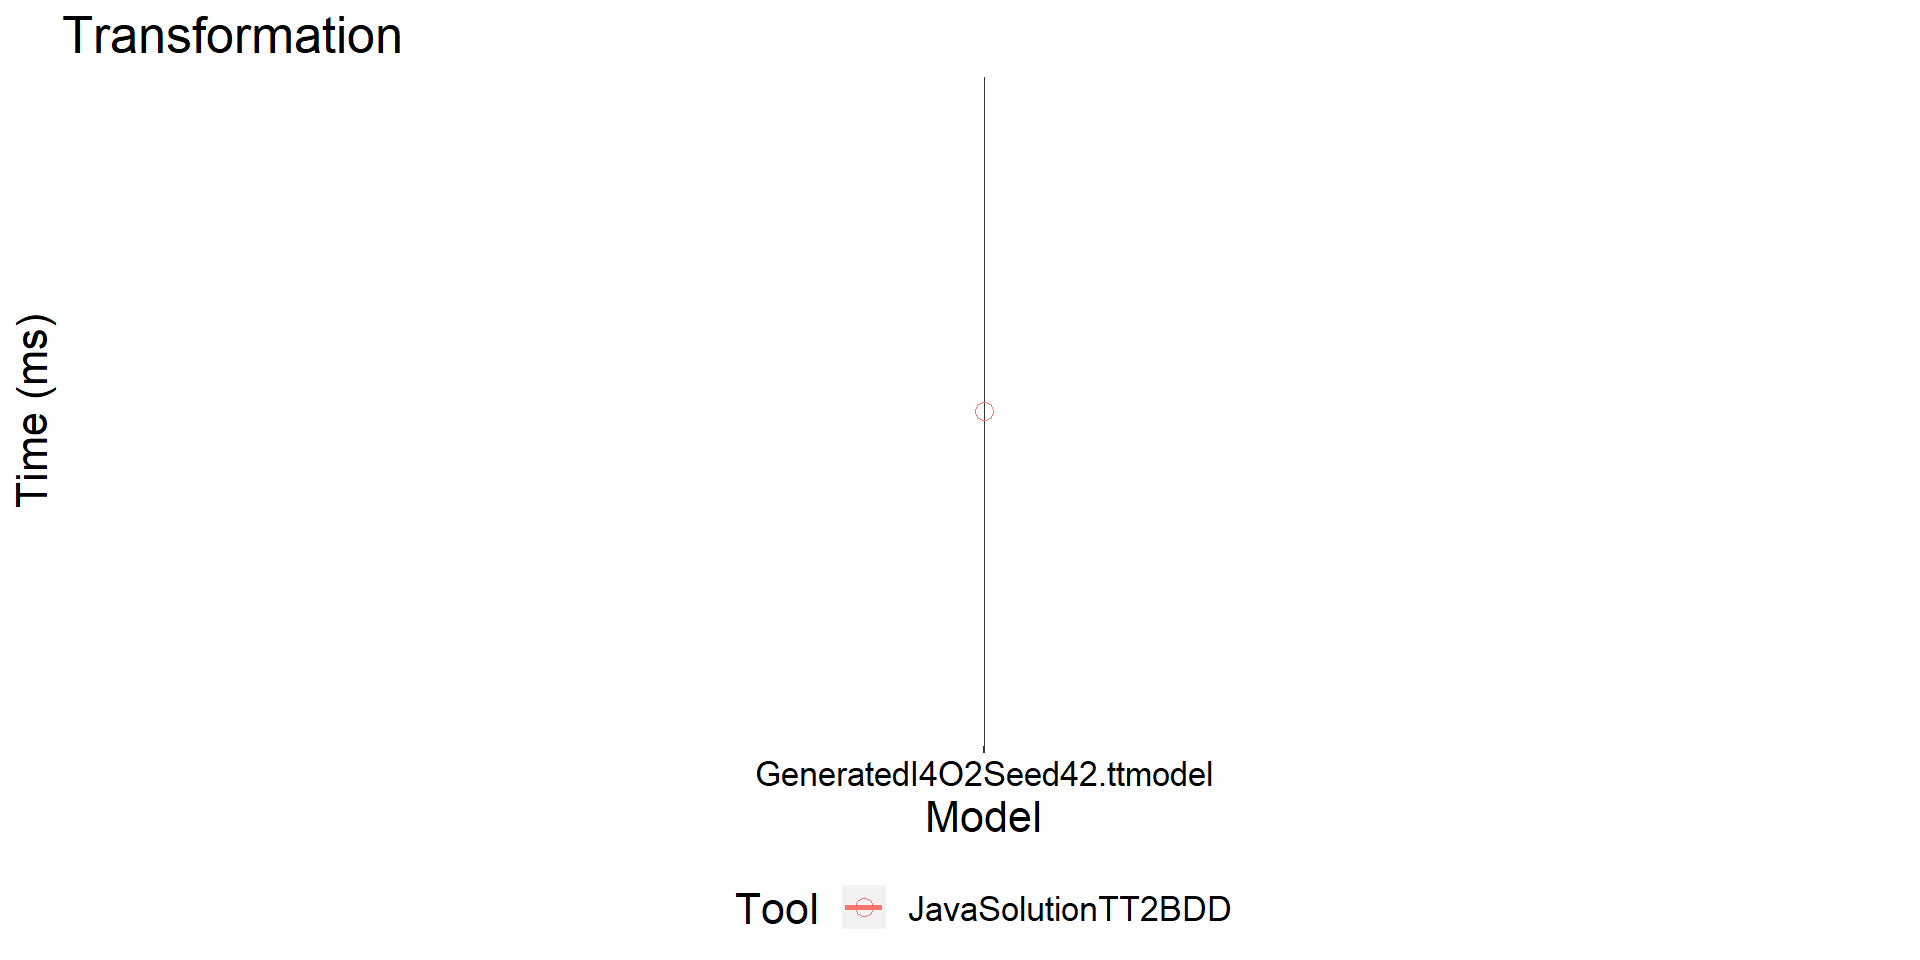
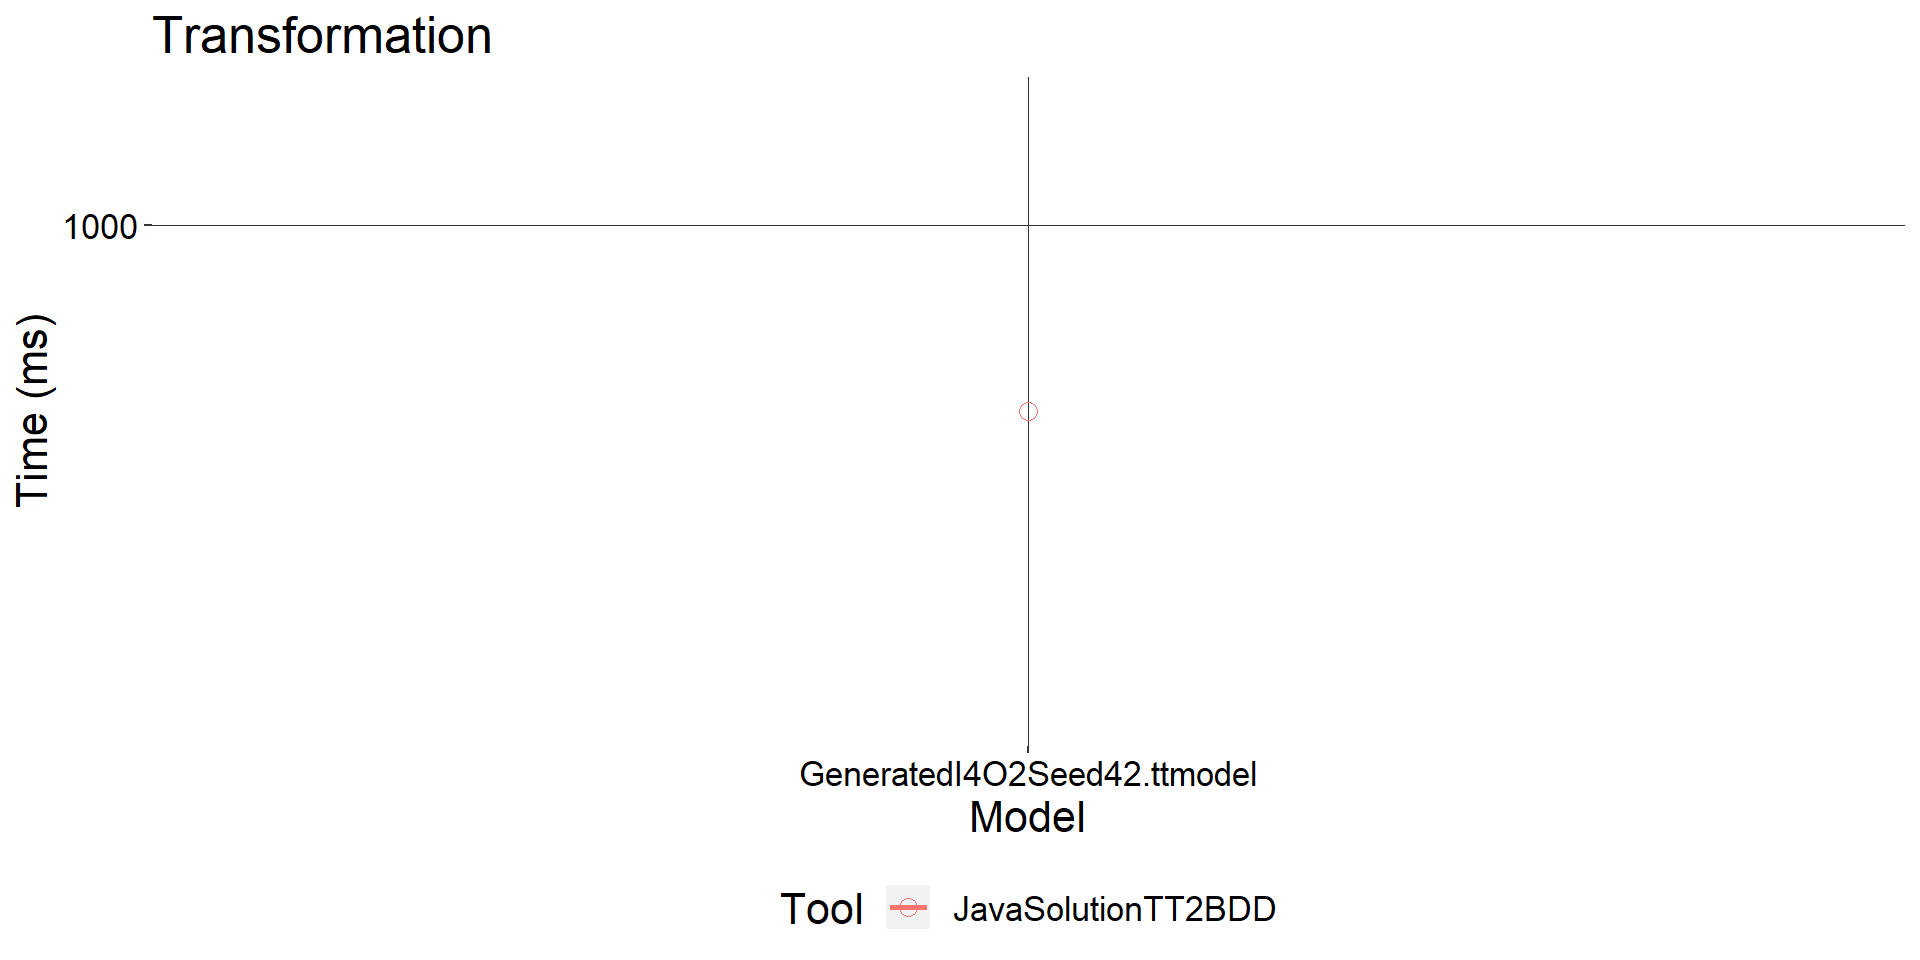
local run & ports transformation

diff --git a/solutions/JavaSolutionTT2BDD/src/ttc2019/Solution.java b/solutions/JavaSolutionTT2BDD/src/ttc2019/Solution.java
@@ -1,24 +1,26 @@
 package ttc2019;
 
 import java.io.IOException;
+import java.util.Objects;
+import java.util.stream.Collector;
+import java.util.stream.Collectors;
 
+import org.eclipse.emf.common.util.BasicEList;
+import org.eclipse.emf.common.util.EList;
 import org.eclipse.emf.ecore.resource.Resource;
-import org.eclipse.m2m.atl.emftvm.EmftvmFactory;
-import org.eclipse.m2m.atl.emftvm.ExecEnv;
-import org.eclipse.m2m.atl.emftvm.Metamodel;
-import org.eclipse.m2m.atl.emftvm.Model;
-import org.eclipse.m2m.atl.emftvm.util.ClassModuleResolver;
-import org.eclipse.m2m.atl.emftvm.util.ModuleResolver;
 
+import ttc2019.metamodels.bdd.BDD;
+import ttc2019.metamodels.bdd.BDDFactory;
 import ttc2019.metamodels.bdd.BDDPackage;
-import ttc2019.metamodels.tt.TTPackage;
-import ttc2019.metamodels.tt.TruthTable;
+import ttc2019.metamodels.bdd.Port;
+import ttc2019.metamodels.bdd.impl.BDDFactoryImpl;
+import ttc2019.metamodels.tt.*;
 
 public class Solution {
 
 	private TruthTable truthTable;
+	private BDD binaryDecisionDiagram;
 	private Resource outputResource;
-	private ExecEnv env;
 
 	public TruthTable getTruthTable() {
 		return truthTable;
@@ -28,22 +30,58 @@ public class Solution {
 		this.truthTable = tt;
 	}
 
-	public void load(final String moduleName) {
-
-	}
-
-	public void run() {
-	}
-
-	public void save() throws IOException {
-		outputResource.save(null);
-	}
-
 	public void setOutputResource(final Resource outputResource) {
 		this.outputResource = outputResource;
 	}
 
 	public Resource getOutputResource() {
 		return outputResource;
+	}
+
+	public void run() {
+		BDDFactory bddFactory = BDDFactoryImpl.init();
+		BDD bdd = bddFactory.createBDD();
+
+		EList<ttc2019.metamodels.bdd.Port> inputPorts = truthTable.getPorts().stream()
+												 .filter(Solution::isInputPort)
+												 .map(port -> ttPortToBddPort(port, bdd))
+												 .collect(Collectors.toCollection(BasicEList::new));
+
+
+		EList<ttc2019.metamodels.bdd.Port> ouputPortBdd = truthTable.getPorts().stream()
+																				.filter(port -> !Solution.isInputPort(port))
+																				.map(port -> ttPortToBddPort(port, bdd))
+																				.collect(Collectors.toCollection(BasicEList::new));
+
+	}
+
+	private static ttc2019.metamodels.bdd.Port ttPortToBddPort(ttc2019.metamodels.tt.Port port, BDD binaryDecisionDiagram) {
+		BDDFactory bddFactory = BDDFactoryImpl.eINSTANCE;
+		ttc2019.metamodels.bdd.Port bddPort;
+		if(isInputPort(port)) {
+			bddPort = bddFactory.createInputPort();
+			bddPort.setName(port.getName());
+			bddPort.setOwner(binaryDecisionDiagram);
+		} else {
+			bddPort = bddFactory.createOutputPort();
+			bddPort.setOwner(binaryDecisionDiagram);
+			bddPort.setName(port.getName());
+		}
+
+		return bddPort;
+	}
+
+	private static void makeAssignment( ) {
+
+	}
+
+
+	private static boolean isInputPort(ttc2019.metamodels.tt.Port port) {
+		return port instanceof InputPort;
+	}
+
+
+	public void save() throws IOException {
+		outputResource.save(null);
 	}
 }

diff --git a/solutions/JavaSolutionTT2BDD/src/ttc2019/Driver.java b/solutions/JavaSolutionTT2BDD/src/ttc2019/Driver.java
@@ -73,8 +73,10 @@ public class Driver {
 		RunIndex = System.getenv("RunIndex");
 		Tool = System.getenv("Tool");
 
+		Model = "GeneratedI4O2Seed42.ttmodel";
+		ModelPath = "./models/GeneratedI4O2Seed42.ttmodel";
+
 		solution = new Solution();
-		solution.load("TT2BDD");
 
 		stopwatch = System.nanoTime() - stopwatch;
 		report(BenchmarkPhase.Initialization);
